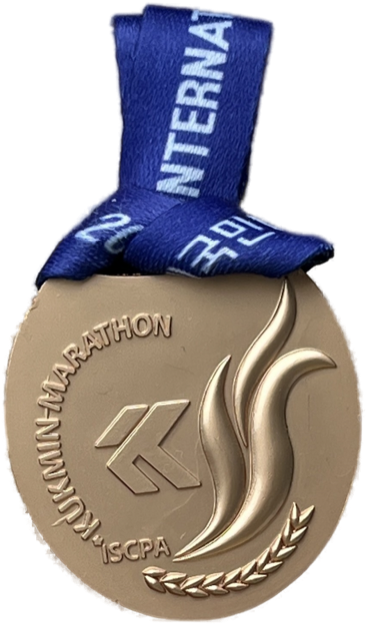
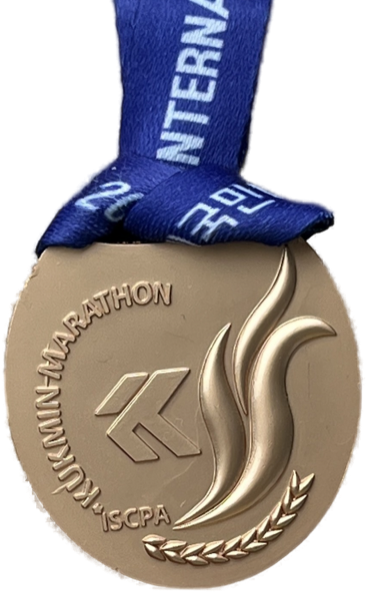
메달 크기 정규화, 보조 설명 교체
- build/fit_medals.py 신설: 리본 길이를 잘라 '메달폭/이미지높이' 를
  0.61(2024 춘천 기준)로 맞춰 화면에서 비슷한 크기로 보이게 함
  (빵빵런은 리본이 65%를 차지해 절반 크기로 보였음)
- 2025 춘천 하프->10K, 빵빵런 10K->5K, 월경박람회 마라톤->월경런 5.28km
- 신발/코스 섹션 보조 설명 교체, 히어로 안내 문구 축약

diff --git a/data/bundle.js b/data/bundle.js
@@ -1,2 +1,2 @@
 /* build.py 가 만듭니다. 직접 고치지 마세요. */
-window.FUNRUN_BUNDLE = {"tracks":{"generatedAt":"2026-08-23T20:47:13+09:00","summary":{"firstDate":"2026-02-20","lastDate":"2026-08-15","runCount":9,"totalKm":74.3,"raceCount":1,"totalKmAll":82.7,"excludedCount":1},"clusters":[{"clusterId":"c00","name":"성북-중랑-한강 코스","note":"동네에서 시작해 중랑천을 따라 한강까지 내려가는 코스입니다.","repRunId":"20260516","runCount":2,"runIds":["20260516","20260815"],"totalKm":26.41,"hasRace":false},{"clusterId":"c01","name":"안양천 — 한강 합수부","note":"","repRunId":"20260603","runCount":1,"runIds":["20260603"],"totalKm":11.92,"hasRace":false},{"clusterId":"c02","name":"더 레이스 서울","note":"10km 대회 코스. 서울 도심 청계천을 따라 달립니다.","repRunId":"20260405","runCount":1,"runIds":["20260405"],"totalKm":10.26,"hasRace":true},{"clusterId":"c03","name":"일산 호수공원","note":"","repRunId":"20260321","runCount":1,"runIds":["20260321"],"totalKm":8.33,"hasRace":false},{"clusterId":"c04","name":"노들역 출발 코스","note":"노들역에서 출발해 동작대교와 반포대교(잠수교)를 건너 다시 노들역으로 돌아옵니다. 한강을 따라 시원하게 달릴 수 있는 코스라 좋아합니다.","repRunId":"20260220","runCount":1,"runIds":["20260220"],"totalKm":8.1,"hasRace":false},{"clusterId":"c05","name":"보라매공원 런","note":"보라매공원을 크게 뱅글뱅글 돌면 되는 코스입니다. 공원이 크고 나무가 많아서 달릴 때 기분이 좋아집니다.","repRunId":"20260530","runCount":2,"runIds":["20260509","20260530"],"totalKm":12.23,"hasRace":false},{"clusterId":"c06","name":"청계천 상류","note":"","repRunId":"20260726","runCount":1,"runIds":["20260726"],"totalKm":3.53,"hasRace":false},{"clusterId":"c07","name":"성북천 이지런","note":"성신여대에서 청계천으로 갈라지기 직전까지 달립니다. 길이는 짧은데 긴 느낌이 드는 천 코스입니다.","repRunId":"20260724","runCount":1,"runIds":["20260724"],"totalKm":1.88,"hasRace":false}],"runs":[{"id":"20260220","date":"2026-02-20","file":"20260220_South Korea_오후 러닝.gpx","isRace":false,"startTime":"16:37","distanceKm":8.1,"durationSec":3385,"elapsedSec":3977,"paceSecPerKm":417,"bbox":[37.505455,126.955734,37.520126,126.997108],"inSeoul":true,"segments":[[[37.52013,126.96232],[37.51792,126.9677],[37.51737,126.96865],[37.5158,126.9732],[37.51506,126.97639],[37.51475,126.97967],[37.51485,126.9849],[37.51518,126.9858],[37.51519,126.98676],[37.51537,126.98752],[37.51641,126.9902],[37.51709,126.99146],[37.51844,126.99306],[37.51888,126.99427],[37.51582,126.99575],[37.51504,126.99622],[37.51506,126.99644]],[[37.51157,126.99711],[37.51136,126.99687],[37.51128,126.99654],[37.51019,126.9951],[37.51009,126.99457],[37.50981,126.99409],[37.50847,126.99252],[37.50772,126.99201],[37.50748,126.9917],[37.50668,126.98968],[37.50787,126.98893],[37.50737,126.98725],[37.50646,126.98673],[37.50664,126.98448],[37.50627,126.98357],[37.50611,126.98248],[37.50613,126.98106],[37.5059,126.98045],[37.50587,126.9797],[37.50564,126.97935],[37.50546,126.97819],[37.50612,126.97704],[37.5062,126.9752],[37.5066,126.97308],[37.50652,126.97301],[37.50661,126.97183],[37.5074,126.97069],[37.50766,126.96997],[37.50793,126.96977],[37.50808,126.96925],[37.50806,126.9687],[37.50866,126.96674],[37.50903,126.96622],[37.50943,126.96527],[37.50993,126.96499],[37.51001,126.96472],[37.51015,126.96472],[37.5103,126.9641],[37.51173,126.96197],[37.51215,126.96043],[37.51352,126.9577],[37.51419,126.95573]]],"clusterId":"c04"},{"id":"20260321","date":"2026-03-21","file":"20260321_South Korea_오후 러닝.gpx","isRace":false,"startTime":"15:25","distanceKm":8.33,"durationSec":3358,"elapsedSec":3358,"paceSecPerKm":403,"bbox":[37.715942,126.700531,37.723206,126.711205],"inSeoul":false,"segments":[[[37.71699,126.70917],[37.716,126.70909],[37.71595,126.7065],[37.71609,126.70628],[37.71637,126.70621],[37.71765,126.70615],[37.71792,126.70461],[37.71859,126.70271],[37.7188,126.70266],[37.71941,126.703],[37.71927,126.7038],[37.72013,126.70428],[37.72044,126.70393],[37.72115,126.70448],[37.72175,126.70435],[37.72191,126.70409],[37.72265,126.70412],[37.72279,126.70457],[37.72311,126.70474],[37.72321,126.70432],[37.72318,126.70264],[37.72295,126.70213],[37.72218,126.70162],[37.71967,126.70057],[37.71912,126.70216],[37.71881,126.70238],[37.71821,126.70405],[37.7186,126.70455],[37.71833,126.70712],[37.71843,126.708],[37.71835,126.71009],[37.71855,126.71101],[37.71842,126.71117],[37.71791,126.71111],[37.71767,126.70925],[37.71768,126.70592],[37.71794,126.70448],[37.7186,126.70266],[37.71878,126.70262],[37.71939,126.70295],[37.71926,126.70382],[37.7201,126.7043],[37.72023,126.7043],[37.72047,126.70393],[37.72092,126.70442],[37.72118,126.70448],[37.72176,126.70435],[37.72187,126.7041],[37.72308,126.70411],[37.72318,126.70399],[37.72313,126.70267],[37.72274,126.70203],[37.71969,126.70057],[37.71914,126.70233],[37.71881,126.70237],[37.71823,126.70407],[37.71836,126.70428],[37.71813,126.70544],[37.71844,126.70573],[37.71831,126.70693],[37.71841,126.70807],[37.71836,126.71009],[37.71851,126.71111],[37.71789,126.71119],[37.71765,126.71087],[37.7176,126.71039],[37.71763,126.7064],[37.71782,126.70608],[37.7183,126.70602],[37.71835,126.71014],[37.71851,126.71111],[37.71803,126.71119],[37.71796,126.71107],[37.71774,126.70914],[37.71772,126.70636],[37.71757,126.70615],[37.71722,126.70621],[37.71726,126.709],[37.71707,126.70936],[37.71718,126.70948],[37.71714,126.70966]]],"clusterId":"c03"},{"id":"20260405","date":"2026-04-05","file":"20260405_South Korea_이른아침 러닝(대회).gpx","isRace":true,"startTime":"07:44","distanceKm":10.26,"durationSec":3589,"elapsedSec":3589,"paceSecPerKm":349,"bbox":[37.560596,126.975883,37.571068,127.009514],"inSeoul":true,"segments":[[[37.57099,126.97733],[37.56814,126.97727],[37.5674,126.9774],[37.56499,126.97742],[37.56453,126.97735],[37.56086,126.97589],[37.5606,126.97612],[37.56112,126.97757],[37.56154,126.98016],[37.56203,126.98106],[37.56244,126.98087],[37.56482,126.97865],[37.56531,126.97872],[37.566,126.97926],[37.56612,126.98262],[37.56604,126.98308],[37.5662,126.98594],[37.5661,126.9864],[37.5661,126.98785],[37.56639,126.99239],[37.56605,126.98304],[37.56607,126.97932],[37.5668,126.97902],[37.56746,126.979],[37.56935,126.97927],[37.56992,126.97912],[37.57014,126.97943],[37.57018,126.98271],[37.57006,126.98318],[37.57018,126.98441],[37.57017,126.9884],[37.57046,126.99328],[37.57043,126.99481],[37.57096,127.00224],[37.57107,127.00748],[37.57104,127.00892],[37.57059,127.00934],[37.57019,127.00951],[37.56995,127.00935],[37.56984,127.00804],[37.56976,127.00185],[37.56891,126.99746],[37.56824,126.98883],[37.56834,126.9865],[37.5688,126.98454],[37.5691,126.98235]]],"clusterId":"c02"},{"id":"20260509","date":"2026-05-09","file":"20260509_South Korea_늦은오후 러닝.gpx","isRace":false,"startTime":"19:42","distanceKm":5.1,"durationSec":2049,"elapsedSec":2384,"paceSecPerKm":401,"bbox":[37.485168,126.906471,37.493633,126.922012],"inSeoul":true,"segments":[[[37.49316,126.922],[37.49361,126.91875],[37.49266,126.91789],[37.49244,126.91778],[37.49214,126.91792],[37.49156,126.92178],[37.49072,126.9216],[37.49081,126.92074],[37.49057,126.91912],[37.49087,126.91731],[37.49063,126.91677],[37.49065,126.91639],[37.49035,126.916],[37.48902,126.9156],[37.48851,126.91491],[37.48799,126.91351],[37.48735,126.91288],[37.48691,126.91199]],[[37.48635,126.91068],[37.48518,126.90683],[37.4852,126.90647],[37.48566,126.9075],[37.48594,126.90891],[37.4865,126.91076],[37.48734,126.91288],[37.48753,126.9131]],[[37.48771,126.9132],[37.48825,126.91388],[37.48888,126.91518]],[[37.4896,126.91566],[37.4906,126.91626],[37.49077,126.9166],[37.49078,126.91714],[37.49118,126.91721],[37.49159,126.91785]],[[37.49166,126.91782],[37.49241,126.91794],[37.49335,126.91889],[37.49328,126.9193],[37.49313,126.91895],[37.49279,126.91869],[37.49248,126.91876],[37.49225,126.91908],[37.492,126.92088],[37.49219,126.92123],[37.4925,126.92133],[37.49286,126.92118],[37.49301,126.92092],[37.49323,126.91927],[37.49313,126.91894],[37.4928,126.91869],[37.49233,126.91892],[37.49199,126.92075],[37.49205,126.92105],[37.49242,126.92136],[37.49286,126.92122],[37.49302,126.92091],[37.49316,126.92001]]],"clusterId":"c05"},{"id":"20260516","date":"2026-05-16","file":"20260516_South Korea_오전 러닝.gpx","isRace":false,"startTime":"08:17","distanceKm":13.23,"durationSec":5912,"elapsedSec":9289,"paceSecPerKm":446,"bbox":[37.514744,126.959541,37.572136,127.051491],"inSeoul":true,"segments":[[[37.519,126.95954],[37.52127,126.96082]],[[37.52049,126.96105],[37.52026,126.96155],[37.52022,126.96204],[37.51907,126.9649],[37.51706,126.96951]],[[37.51702,126.9697],[37.51678,126.97018],[37.51574,126.9734],[37.51507,126.97639],[37.51474,126.98071],[37.51485,126.98103],[37.51485,126.98467]],[[37.51496,126.98518],[37.51516,126.98574],[37.51532,126.98736],[37.51609,126.9894]],[[37.5164,126.99017],[37.51715,126.99152],[37.51849,126.99313],[37.5196,126.99594],[37.52058,126.99783],[37.52173,127.00047],[37.52255,127.00166],[37.52282,127.00192],[37.52303,127.00187]],[[37.52331,127.00207],[37.52491,127.00307],[37.52579,127.00388],[37.52662,127.00531],[37.5279,127.00693],[37.52824,127.00719],[37.52909,127.00872],[37.52978,127.01054],[37.53069,127.01189],[37.5327,127.01346],[37.53296,127.01363],[37.53355,127.01366],[37.53932,127.01745],[37.53965,127.01778],[37.54003,127.0186],[37.54042,127.01905],[37.54106,127.02047],[37.54245,127.02266]],[[37.54285,127.02322],[37.54332,127.02399],[37.54427,127.02493],[37.54539,127.02843],[37.5462,127.03045]],[[37.54651,127.03101],[37.54674,127.03122],[37.54715,127.03227],[37.54779,127.03314],[37.54899,127.03433],[37.55003,127.03497],[37.5505,127.03559],[37.55177,127.03799],[37.55231,127.03943]],[[37.55256,127.04008],[37.55322,127.04224],[37.55374,127.04545],[37.55397,127.04573],[37.5537,127.04649],[37.55347,127.04958],[37.55353,127.0501],[37.55384,127.05067],[37.55414,127.0509],[37.55582,127.05137],[37.55763,127.05149],[37.55835,127.05128],[37.56099,127.05003]],[[37.56259,127.04926],[37.56375,127.04879],[37.56952,127.04564],[37.57,127.04499],[37.57037,127.04391],[37.57128,127.04206],[37.57146,127.04208],[37.57168,127.04159],[37.57174,127.03949],[37.57214,127.03781],[37.57189,127.03584],[37.57161,127.03493],[37.56993,127.03243],[37.56968,127.03144],[37.56971,127.03046]]],"clusterId":"c00"},{"id":"20260530","date":"2026-05-30","file":"20260530_South Korea_오전 러닝.gpx","isRace":false,"startTime":"09:02","distanceKm":7.13,"durationSec":3015,"elapsedSec":3505,"paceSecPerKm":422,"bbox":[37.490528,126.91613,37.493595,126.922188],"inSeoul":true,"segments":[[[37.49308,126.92021],[37.49314,126.91907],[37.49291,126.91878],[37.49255,126.91872],[37.49224,126.91916],[37.49201,126.92066],[37.49205,126.92104],[37.49222,126.92128],[37.49257,126.92135],[37.49292,126.92108],[37.49321,126.91932],[37.49311,126.91898],[37.49286,126.91875],[37.49252,126.91878],[37.49228,126.91904],[37.49201,126.92078],[37.49227,126.9213],[37.4926,126.92137],[37.49289,126.92117],[37.49301,126.92091],[37.49334,126.91882],[37.49254,126.91809],[37.4922,126.91796],[37.4921,126.91808],[37.49192,126.91914]],[[37.49167,126.91992],[37.49179,126.92023],[37.49155,126.92178],[37.49069,126.92164],[37.49079,126.92077],[37.49053,126.91905],[37.49079,126.91811]],[[37.49078,126.91811],[37.49085,126.91737],[37.49066,126.91693],[37.491,126.91635],[37.49154,126.91637],[37.49206,126.91666],[37.49223,126.91725],[37.49208,126.9177]],[[37.49238,126.91794],[37.49336,126.9188],[37.49328,126.91931],[37.4931,126.91895],[37.49282,126.91874],[37.49249,126.9188],[37.49224,126.91912],[37.49199,126.92085],[37.49223,126.92131],[37.49261,126.92137],[37.49301,126.92096],[37.49319,126.91919],[37.49304,126.9189],[37.49268,126.91873],[37.4924,126.91888],[37.49224,126.91917],[37.49199,126.92077],[37.49211,126.92117],[37.49236,126.92136],[37.49271,126.92132],[37.49299,126.92098],[37.49322,126.91927],[37.49289,126.91876],[37.49261,126.91873],[37.49228,126.91891]],[[37.49224,126.91898],[37.49192,126.91914],[37.49154,126.9218],[37.49293,126.92219]],[[37.49313,126.92207],[37.49359,126.9188],[37.49281,126.91801],[37.49236,126.91775],[37.49204,126.91663],[37.49096,126.91615],[37.4907,126.91692],[37.49085,126.91742],[37.49055,126.91903],[37.49081,126.92069],[37.49075,126.92164],[37.49166,126.92185],[37.49264,126.9214],[37.49294,126.92111],[37.49323,126.91946],[37.4932,126.91914],[37.49309,126.9189],[37.4928,126.91872],[37.49231,126.91889]],[[37.49226,126.91907],[37.49197,126.92095],[37.49218,126.92126],[37.49245,126.92138],[37.49295,126.92109],[37.49324,126.91943],[37.49302,126.91882],[37.49269,126.91871],[37.49235,126.91888],[37.49217,126.91933],[37.49208,126.92014],[37.49184,126.92014]]],"clusterId":"c05"},{"id":"20260603","date":"2026-06-03","file":"20260603_South Korea_이른아침 러닝.gpx","isRace":false,"startTime":"06:53","distanceKm":11.92,"durationSec":5606,"elapsedSec":8339,"paceSecPerKm":470,"bbox":[37.484089,126.887817,37.51321,126.921799],"inSeoul":true,"segments":[[[37.49345,126.9191],[37.49331,126.91895],[37.49339,126.91903],[37.49332,126.91875],[37.49258,126.91808],[37.49212,126.91798],[37.49179,126.92028]],[[37.49157,126.92087],[37.49166,126.92102],[37.49153,126.92178],[37.4907,126.92159],[37.4908,126.92061],[37.49055,126.91914],[37.49089,126.91739],[37.4907,126.9169],[37.49075,126.91653],[37.49036,126.91601],[37.48906,126.91561],[37.48823,126.9147],[37.48817,126.91386],[37.48759,126.91316],[37.48758,126.913],[37.48732,126.91288],[37.48673,126.91167],[37.48508,126.90663],[37.48477,126.90624],[37.48467,126.90563],[37.48409,126.90552],[37.48424,126.90549],[37.48423,126.90538]],[[37.48585,126.89997],[37.48613,126.89935],[37.48662,126.89894],[37.48748,126.8978],[37.48817,126.89714],[37.48889,126.8967],[37.49207,126.89557],[37.49212,126.89545],[37.49263,126.89536],[37.49352,126.89488],[37.49576,126.8941],[37.49701,126.89386]],[[37.49734,126.8937],[37.49739,126.89368]],[[37.49796,126.89346],[37.49828,126.89368]],[[37.49895,126.89561],[37.49914,126.89601]],[[37.49912,126.8959],[37.49987,126.89744],[37.50001,126.89753],[37.50026,126.89729]],[[37.49999,126.89638],[37.49961,126.89584],[37.49881,126.89417]],[[37.4984,126.89368],[37.50131,126.89323],[37.50234,126.8933]],[[37.50478,126.89363],[37.50353,126.89354],[37.50654,126.89409],[37.50874,126.893],[37.50962,126.89236],[37.50997,126.89184],[37.51083,126.89131],[37.51202,126.89017],[37.5126,126.8893],[37.51321,126.88782],[37.51245,126.8896],[37.51204,126.89018],[37.51121,126.89091]],[[37.51029,126.89166],[37.50967,126.89233],[37.50992,126.89264],[37.50974,126.89254],[37.5093,126.89288],[37.50909,126.89277],[37.50817,126.89342],[37.50643,126.8941],[37.50314,126.89349]],[[37.50189,126.8931],[37.50175,126.89324],[37.49789,126.89375]],[[37.49699,126.89397],[37.4958,126.8942],[37.49468,126.89462]],[[37.49382,126.89485],[37.49223,126.89533],[37.49117,126.89588],[37.48958,126.89645],[37.48914,126.89645],[37.48772,126.8976],[37.48739,126.8977],[37.48642,126.89947],[37.4862,126.89922],[37.48598,126.89924],[37.48533,126.90037],[37.48489,126.90073]],[[37.48532,126.90683],[37.48651,126.91103],[37.48742,126.91285],[37.4876,126.91286],[37.48817,126.9137],[37.4889,126.91531],[37.48928,126.91563],[37.49041,126.91602],[37.49074,126.91647],[37.49109,126.91628],[37.492,126.91654],[37.4922,126.91696],[37.49234,126.91786],[37.49336,126.91875],[37.49328,126.91929],[37.49305,126.91885],[37.49282,126.9187],[37.49251,126.91872],[37.49228,126.91898],[37.49198,126.92065],[37.49213,126.92118],[37.49253,126.92135],[37.4929,126.92113],[37.49327,126.9195]]],"clusterId":"c01"},{"id":"20260724","date":"2026-07-24","file":"20260724_South Korea_늦은오후 러닝.gpx","isRace":false,"startTime":"19:16","distanceKm":1.88,"durationSec":749,"elapsedSec":889,"paceSecPerKm":398,"bbox":[37.577209,127.021393,37.584877,127.02787],"inSeoul":true,"segments":[[[37.58277,127.02221],[37.57962,127.024],[37.57926,127.02461],[37.57908,127.02581],[37.57848,127.02699],[37.57791,127.02754],[37.57721,127.02787]],[[37.57802,127.02743],[37.57881,127.02624],[37.57903,127.02573],[37.57926,127.02443],[37.57965,127.02391],[37.5829,127.02212],[37.58488,127.02141]]],"clusterId":"c07"},{"id":"20260726","date":"2026-07-26","file":"20260726_South Korea_저녁 러닝.gpx","isRace":false,"startTime":"22:03","distanceKm":3.53,"durationSec":1487,"elapsedSec":2157,"paceSecPerKm":420,"bbox":[37.569649,127.026093,37.578861,127.044815],"inSeoul":true,"segments":[[[37.57886,127.02609],[37.57851,127.0269],[37.57805,127.02739],[37.57713,127.02789],[37.57626,127.02789],[37.5761,127.02773],[37.5742,127.02798],[37.57389,127.02776],[37.57355,127.02795],[37.57152,127.02771]],[[37.57062,127.02802],[37.57037,127.02884]],[[37.57087,127.02746],[37.57102,127.02695]],[[37.57055,127.02682],[37.57051,127.02703]],[[37.57032,127.02766],[37.5697,127.03014],[37.56968,127.03144],[37.56984,127.0321],[37.57048,127.03328],[37.5718,127.03487],[37.57202,127.03601],[37.57211,127.03773],[37.57232,127.03848],[37.57226,127.0393],[37.57192,127.03975],[37.57176,127.04138],[37.57099,127.04253],[37.57072,127.04352],[37.5701,127.04482]],[[37.57019,127.04453],[37.57011,127.04442],[37.57064,127.04305],[37.5713,127.04188],[37.57167,127.04089],[37.572,127.03718]]],"clusterId":"c06"},{"id":"20260815","date":"2026-08-15","file":"20260815_South Korea_오전 러닝.gpx","isRace":false,"startTime":"08:15","distanceKm":13.18,"durationSec":5848,"elapsedSec":6987,"paceSecPerKm":443,"bbox":[37.529102,127.009163,37.594517,127.051537],"inSeoul":true,"segments":[[[37.59452,127.0209],[37.58943,127.02026],[37.58942,127.01974],[37.58883,127.01905]],[[37.58801,127.01986],[37.58699,127.02068],[37.58584,127.02097],[37.58304,127.02204],[37.57964,127.02393],[37.57931,127.0244],[37.57908,127.02566],[37.57846,127.02699],[37.5778,127.02756],[37.57716,127.02782],[37.57443,127.02817]],[[37.57363,127.02815],[37.5714,127.02787],[37.57074,127.02799],[37.57103,127.02686]],[[37.57055,127.02682],[37.56973,127.02983],[37.5697,127.03121],[37.56996,127.03239],[37.57127,127.03441]],[[37.57148,127.03474],[37.57192,127.03581],[37.5722,127.03822],[37.57191,127.03925],[37.57193,127.04009],[37.57177,127.04126],[37.57083,127.04278],[37.57083,127.04326],[37.57011,127.0448]],[[37.56984,127.04528],[37.56886,127.04613],[37.56702,127.04694],[37.56645,127.04738],[37.5657,127.04765],[37.56442,127.04844],[37.56292,127.04903],[37.55849,127.05123],[37.55746,127.05154],[37.55587,127.05135],[37.55415,127.05087],[37.55359,127.05023],[37.55348,127.04958],[37.55371,127.04641],[37.55396,127.04578],[37.55372,127.04543],[37.55322,127.04224]],[[37.55313,127.04193],[37.55275,127.04052],[37.55181,127.03802],[37.55056,127.03564],[37.55005,127.03498],[37.54897,127.03429],[37.54789,127.0332],[37.54698,127.03197],[37.54675,127.0312],[37.54615,127.03046]],[[37.54597,127.03],[37.5459,127.02956],[37.54544,127.0285],[37.54431,127.02501],[37.54331,127.02399],[37.54171,127.02155]],[[37.54122,127.02067],[37.5401,127.01864]],[[37.54004,127.01856],[37.53931,127.01764],[37.53761,127.01626]],[[37.53691,127.0158],[37.53342,127.01357],[37.53261,127.01343],[37.53179,127.01263],[37.53119,127.01224],[37.52999,127.01089],[37.5291,127.00916]],[[37.52914,127.00921],[37.53017,127.01109],[37.53064,127.01167],[37.53209,127.01247],[37.5327,127.01344],[37.53368,127.01366],[37.53815,127.01672],[37.53886,127.01703],[37.53898,127.01719],[37.53887,127.01773]],[[37.53909,127.01742],[37.53943,127.01754],[37.54005,127.01823],[37.54096,127.02017],[37.54055,127.01952]]],"clusterId":"c00"}]},"runsCsv":"날짜,코스,거리km,대회,만족도,한줄평,운동화,사진\n2026-02-20,노들역 출발 코스,8.10,,,,shoe-01,\n2026-03-21,일산 호수공원,8.33,,,,shoe-01,\n2026-04-05,더 레이스 서울,10.26,대회,5,서울 도심인 청계천을 달리는 경험은 처음이었는데 즐거웠다.,shoe-02,\n2026-05-09,보라매공원 런,5.10,,,,shoe-02,\n2026-05-16,성북-중랑-한강 코스,13.23,,,,shoe-02,\n2026-05-30,보라매공원 런,7.13,,,,shoe-02,\n2026-06-03,안양천 — 한강 합수부,11.92,,,,shoe-03,\n2026-07-24,성북천 이지런,1.88,,,,shoe-03,\n2026-07-26,청계천 상류,3.53,,,,shoe-03,\n2026-08-15,성북-중랑-한강 코스,13.18,,,,shoe-03,\n","shoesCsv":"id,이름,브랜드,사이즈,상태,사진,크롭,메모\nshoe-01,리액트 이스케이프 런,NIKE,250,은퇴,images/shoes/shoe-01.jpg,\"24,15,70,70\",\nshoe-02,디비에이트 나이트로 3 화이트실버,PUMA,255,주력,images/shoes/shoe-02.jpg,\"9,47,43,43\",\nshoe-03,젤카야노 33 우먼 D,ASICS,255,주력,images/shoes/shoe-02.jpg,\"47,14,44,44\",\n","medalsCsv":"연도,대회명,종목,기록,사진,연결러닝,메모\n2021,월경박람회 마라톤,5K,,images/medals/2021-wolgyeong.png,,처음으로 받아본 완주 메달.\n2023,JTBC 서울마라톤,10K,,images/medals/2023-jtbc.png,,\n2023,빵빵런,10K,,images/medals/2023-ppangppang.png,,\n2024,춘천마라톤,10K,,images/medals/2024-chuncheon.png,,\n2025,여의도 벚꽃마라톤,10K,,images/medals/2025-yeouido.png,,\n2025,국제국민마라톤,10K,,images/medals/2025-kukje.png,,\n2025,춘천마라톤,하프,,images/medals/2025-chuncheon.png,,\n2026,더 레이스 서울,10K,,images/medals/2026-theraceseoul.png,2026-04-05,GPX 기록이 남아있는 유일한 대회.\n","coursesCsv":"대표날짜,코스명,설명\n2026-02-20,노들역 출발 코스,노들역에서 출발해 동작대교와 반포대교(잠수교)를 건너 다시 노들역으로 돌아옵니다. 한강을 따라 시원하게 달릴 수 있는 코스라 좋아합니다.\n2026-03-21,일산 호수공원,\n2026-04-05,더 레이스 서울,10km 대회 코스. 서울 도심 청계천을 따라 달립니다.\n2026-05-16,성북-중랑-한강 코스,동네에서 시작해 중랑천을 따라 한강까지 내려가는 코스입니다.\n2026-05-30,보라매공원 런,보라매공원을 크게 뱅글뱅글 돌면 되는 코스입니다. 공원이 크고 나무가 많아서 달릴 때 기분이 좋아집니다.\n2026-06-03,안양천 — 한강 합수부,\n2026-07-24,성북천 이지런,성신여대에서 청계천으로 갈라지기 직전까지 달립니다. 길이는 짧은데 긴 느낌이 드는 천 코스입니다.\n2026-07-26,청계천 상류,\n","monthlyCsv":"연월,거리km,기준일\n2026-01,16.2,\n2026-02,26.5,\n2026-03,29.8,\n2026-04,26.8,\n2026-05,44.2,\n2026-06,16.7,\n2026-07,11,\n2026-08,49,2026-08-23\n"};
+window.FUNRUN_BUNDLE = {"tracks":{"generatedAt":"2026-08-23T21:19:35+09:00","summary":{"firstDate":"2026-02-20","lastDate":"2026-08-15","runCount":9,"totalKm":74.3,"raceCount":1,"totalKmAll":82.7,"excludedCount":1},"clusters":[{"clusterId":"c00","name":"성북-중랑-한강 코스","note":"동네에서 시작해 중랑천을 따라 한강까지 내려가는 코스입니다.","repRunId":"20260516","runCount":2,"runIds":["20260516","20260815"],"totalKm":26.41,"hasRace":false},{"clusterId":"c01","name":"안양천 — 한강 합수부","note":"","repRunId":"20260603","runCount":1,"runIds":["20260603"],"totalKm":11.92,"hasRace":false},{"clusterId":"c02","name":"더 레이스 서울","note":"10km 대회 코스. 서울 도심 청계천을 따라 달립니다.","repRunId":"20260405","runCount":1,"runIds":["20260405"],"totalKm":10.26,"hasRace":true},{"clusterId":"c03","name":"일산 호수공원","note":"","repRunId":"20260321","runCount":1,"runIds":["20260321"],"totalKm":8.33,"hasRace":false},{"clusterId":"c04","name":"노들역 출발 코스","note":"노들역에서 출발해 동작대교와 반포대교(잠수교)를 건너 다시 노들역으로 돌아옵니다. 한강을 따라 시원하게 달릴 수 있는 코스라 좋아합니다.","repRunId":"20260220","runCount":1,"runIds":["20260220"],"totalKm":8.1,"hasRace":false},{"clusterId":"c05","name":"보라매공원 런","note":"보라매공원을 크게 뱅글뱅글 돌면 되는 코스입니다. 공원이 크고 나무가 많아서 달릴 때 기분이 좋아집니다.","repRunId":"20260530","runCount":2,"runIds":["20260509","20260530"],"totalKm":12.23,"hasRace":false},{"clusterId":"c06","name":"청계천 상류","note":"","repRunId":"20260726","runCount":1,"runIds":["20260726"],"totalKm":3.53,"hasRace":false},{"clusterId":"c07","name":"성북천 이지런","note":"성신여대에서 청계천으로 갈라지기 직전까지 달립니다. 길이는 짧은데 긴 느낌이 드는 천 코스입니다.","repRunId":"20260724","runCount":1,"runIds":["20260724"],"totalKm":1.88,"hasRace":false}],"runs":[{"id":"20260220","date":"2026-02-20","file":"20260220_South Korea_오후 러닝.gpx","isRace":false,"startTime":"16:37","distanceKm":8.1,"durationSec":3385,"elapsedSec":3977,"paceSecPerKm":417,"bbox":[37.505455,126.955734,37.520126,126.997108],"inSeoul":true,"segments":[[[37.52013,126.96232],[37.51792,126.9677],[37.51737,126.96865],[37.5158,126.9732],[37.51506,126.97639],[37.51475,126.97967],[37.51485,126.9849],[37.51518,126.9858],[37.51519,126.98676],[37.51537,126.98752],[37.51641,126.9902],[37.51709,126.99146],[37.51844,126.99306],[37.51888,126.99427],[37.51582,126.99575],[37.51504,126.99622],[37.51506,126.99644]],[[37.51157,126.99711],[37.51136,126.99687],[37.51128,126.99654],[37.51019,126.9951],[37.51009,126.99457],[37.50981,126.99409],[37.50847,126.99252],[37.50772,126.99201],[37.50748,126.9917],[37.50668,126.98968],[37.50787,126.98893],[37.50737,126.98725],[37.50646,126.98673],[37.50664,126.98448],[37.50627,126.98357],[37.50611,126.98248],[37.50613,126.98106],[37.5059,126.98045],[37.50587,126.9797],[37.50564,126.97935],[37.50546,126.97819],[37.50612,126.97704],[37.5062,126.9752],[37.5066,126.97308],[37.50652,126.97301],[37.50661,126.97183],[37.5074,126.97069],[37.50766,126.96997],[37.50793,126.96977],[37.50808,126.96925],[37.50806,126.9687],[37.50866,126.96674],[37.50903,126.96622],[37.50943,126.96527],[37.50993,126.96499],[37.51001,126.96472],[37.51015,126.96472],[37.5103,126.9641],[37.51173,126.96197],[37.51215,126.96043],[37.51352,126.9577],[37.51419,126.95573]]],"clusterId":"c04"},{"id":"20260321","date":"2026-03-21","file":"20260321_South Korea_오후 러닝.gpx","isRace":false,"startTime":"15:25","distanceKm":8.33,"durationSec":3358,"elapsedSec":3358,"paceSecPerKm":403,"bbox":[37.715942,126.700531,37.723206,126.711205],"inSeoul":false,"segments":[[[37.71699,126.70917],[37.716,126.70909],[37.71595,126.7065],[37.71609,126.70628],[37.71637,126.70621],[37.71765,126.70615],[37.71792,126.70461],[37.71859,126.70271],[37.7188,126.70266],[37.71941,126.703],[37.71927,126.7038],[37.72013,126.70428],[37.72044,126.70393],[37.72115,126.70448],[37.72175,126.70435],[37.72191,126.70409],[37.72265,126.70412],[37.72279,126.70457],[37.72311,126.70474],[37.72321,126.70432],[37.72318,126.70264],[37.72295,126.70213],[37.72218,126.70162],[37.71967,126.70057],[37.71912,126.70216],[37.71881,126.70238],[37.71821,126.70405],[37.7186,126.70455],[37.71833,126.70712],[37.71843,126.708],[37.71835,126.71009],[37.71855,126.71101],[37.71842,126.71117],[37.71791,126.71111],[37.71767,126.70925],[37.71768,126.70592],[37.71794,126.70448],[37.7186,126.70266],[37.71878,126.70262],[37.71939,126.70295],[37.71926,126.70382],[37.7201,126.7043],[37.72023,126.7043],[37.72047,126.70393],[37.72092,126.70442],[37.72118,126.70448],[37.72176,126.70435],[37.72187,126.7041],[37.72308,126.70411],[37.72318,126.70399],[37.72313,126.70267],[37.72274,126.70203],[37.71969,126.70057],[37.71914,126.70233],[37.71881,126.70237],[37.71823,126.70407],[37.71836,126.70428],[37.71813,126.70544],[37.71844,126.70573],[37.71831,126.70693],[37.71841,126.70807],[37.71836,126.71009],[37.71851,126.71111],[37.71789,126.71119],[37.71765,126.71087],[37.7176,126.71039],[37.71763,126.7064],[37.71782,126.70608],[37.7183,126.70602],[37.71835,126.71014],[37.71851,126.71111],[37.71803,126.71119],[37.71796,126.71107],[37.71774,126.70914],[37.71772,126.70636],[37.71757,126.70615],[37.71722,126.70621],[37.71726,126.709],[37.71707,126.70936],[37.71718,126.70948],[37.71714,126.70966]]],"clusterId":"c03"},{"id":"20260405","date":"2026-04-05","file":"20260405_South Korea_이른아침 러닝(대회).gpx","isRace":true,"startTime":"07:44","distanceKm":10.26,"durationSec":3589,"elapsedSec":3589,"paceSecPerKm":349,"bbox":[37.560596,126.975883,37.571068,127.009514],"inSeoul":true,"segments":[[[37.57099,126.97733],[37.56814,126.97727],[37.5674,126.9774],[37.56499,126.97742],[37.56453,126.97735],[37.56086,126.97589],[37.5606,126.97612],[37.56112,126.97757],[37.56154,126.98016],[37.56203,126.98106],[37.56244,126.98087],[37.56482,126.97865],[37.56531,126.97872],[37.566,126.97926],[37.56612,126.98262],[37.56604,126.98308],[37.5662,126.98594],[37.5661,126.9864],[37.5661,126.98785],[37.56639,126.99239],[37.56605,126.98304],[37.56607,126.97932],[37.5668,126.97902],[37.56746,126.979],[37.56935,126.97927],[37.56992,126.97912],[37.57014,126.97943],[37.57018,126.98271],[37.57006,126.98318],[37.57018,126.98441],[37.57017,126.9884],[37.57046,126.99328],[37.57043,126.99481],[37.57096,127.00224],[37.57107,127.00748],[37.57104,127.00892],[37.57059,127.00934],[37.57019,127.00951],[37.56995,127.00935],[37.56984,127.00804],[37.56976,127.00185],[37.56891,126.99746],[37.56824,126.98883],[37.56834,126.9865],[37.5688,126.98454],[37.5691,126.98235]]],"clusterId":"c02"},{"id":"20260509","date":"2026-05-09","file":"20260509_South Korea_늦은오후 러닝.gpx","isRace":false,"startTime":"19:42","distanceKm":5.1,"durationSec":2049,"elapsedSec":2384,"paceSecPerKm":401,"bbox":[37.485168,126.906471,37.493633,126.922012],"inSeoul":true,"segments":[[[37.49316,126.922],[37.49361,126.91875],[37.49266,126.91789],[37.49244,126.91778],[37.49214,126.91792],[37.49156,126.92178],[37.49072,126.9216],[37.49081,126.92074],[37.49057,126.91912],[37.49087,126.91731],[37.49063,126.91677],[37.49065,126.91639],[37.49035,126.916],[37.48902,126.9156],[37.48851,126.91491],[37.48799,126.91351],[37.48735,126.91288],[37.48691,126.91199]],[[37.48635,126.91068],[37.48518,126.90683],[37.4852,126.90647],[37.48566,126.9075],[37.48594,126.90891],[37.4865,126.91076],[37.48734,126.91288],[37.48753,126.9131]],[[37.48771,126.9132],[37.48825,126.91388],[37.48888,126.91518]],[[37.4896,126.91566],[37.4906,126.91626],[37.49077,126.9166],[37.49078,126.91714],[37.49118,126.91721],[37.49159,126.91785]],[[37.49166,126.91782],[37.49241,126.91794],[37.49335,126.91889],[37.49328,126.9193],[37.49313,126.91895],[37.49279,126.91869],[37.49248,126.91876],[37.49225,126.91908],[37.492,126.92088],[37.49219,126.92123],[37.4925,126.92133],[37.49286,126.92118],[37.49301,126.92092],[37.49323,126.91927],[37.49313,126.91894],[37.4928,126.91869],[37.49233,126.91892],[37.49199,126.92075],[37.49205,126.92105],[37.49242,126.92136],[37.49286,126.92122],[37.49302,126.92091],[37.49316,126.92001]]],"clusterId":"c05"},{"id":"20260516","date":"2026-05-16","file":"20260516_South Korea_오전 러닝.gpx","isRace":false,"startTime":"08:17","distanceKm":13.23,"durationSec":5912,"elapsedSec":9289,"paceSecPerKm":446,"bbox":[37.514744,126.959541,37.572136,127.051491],"inSeoul":true,"segments":[[[37.519,126.95954],[37.52127,126.96082]],[[37.52049,126.96105],[37.52026,126.96155],[37.52022,126.96204],[37.51907,126.9649],[37.51706,126.96951]],[[37.51702,126.9697],[37.51678,126.97018],[37.51574,126.9734],[37.51507,126.97639],[37.51474,126.98071],[37.51485,126.98103],[37.51485,126.98467]],[[37.51496,126.98518],[37.51516,126.98574],[37.51532,126.98736],[37.51609,126.9894]],[[37.5164,126.99017],[37.51715,126.99152],[37.51849,126.99313],[37.5196,126.99594],[37.52058,126.99783],[37.52173,127.00047],[37.52255,127.00166],[37.52282,127.00192],[37.52303,127.00187]],[[37.52331,127.00207],[37.52491,127.00307],[37.52579,127.00388],[37.52662,127.00531],[37.5279,127.00693],[37.52824,127.00719],[37.52909,127.00872],[37.52978,127.01054],[37.53069,127.01189],[37.5327,127.01346],[37.53296,127.01363],[37.53355,127.01366],[37.53932,127.01745],[37.53965,127.01778],[37.54003,127.0186],[37.54042,127.01905],[37.54106,127.02047],[37.54245,127.02266]],[[37.54285,127.02322],[37.54332,127.02399],[37.54427,127.02493],[37.54539,127.02843],[37.5462,127.03045]],[[37.54651,127.03101],[37.54674,127.03122],[37.54715,127.03227],[37.54779,127.03314],[37.54899,127.03433],[37.55003,127.03497],[37.5505,127.03559],[37.55177,127.03799],[37.55231,127.03943]],[[37.55256,127.04008],[37.55322,127.04224],[37.55374,127.04545],[37.55397,127.04573],[37.5537,127.04649],[37.55347,127.04958],[37.55353,127.0501],[37.55384,127.05067],[37.55414,127.0509],[37.55582,127.05137],[37.55763,127.05149],[37.55835,127.05128],[37.56099,127.05003]],[[37.56259,127.04926],[37.56375,127.04879],[37.56952,127.04564],[37.57,127.04499],[37.57037,127.04391],[37.57128,127.04206],[37.57146,127.04208],[37.57168,127.04159],[37.57174,127.03949],[37.57214,127.03781],[37.57189,127.03584],[37.57161,127.03493],[37.56993,127.03243],[37.56968,127.03144],[37.56971,127.03046]]],"clusterId":"c00"},{"id":"20260530","date":"2026-05-30","file":"20260530_South Korea_오전 러닝.gpx","isRace":false,"startTime":"09:02","distanceKm":7.13,"durationSec":3015,"elapsedSec":3505,"paceSecPerKm":422,"bbox":[37.490528,126.91613,37.493595,126.922188],"inSeoul":true,"segments":[[[37.49308,126.92021],[37.49314,126.91907],[37.49291,126.91878],[37.49255,126.91872],[37.49224,126.91916],[37.49201,126.92066],[37.49205,126.92104],[37.49222,126.92128],[37.49257,126.92135],[37.49292,126.92108],[37.49321,126.91932],[37.49311,126.91898],[37.49286,126.91875],[37.49252,126.91878],[37.49228,126.91904],[37.49201,126.92078],[37.49227,126.9213],[37.4926,126.92137],[37.49289,126.92117],[37.49301,126.92091],[37.49334,126.91882],[37.49254,126.91809],[37.4922,126.91796],[37.4921,126.91808],[37.49192,126.91914]],[[37.49167,126.91992],[37.49179,126.92023],[37.49155,126.92178],[37.49069,126.92164],[37.49079,126.92077],[37.49053,126.91905],[37.49079,126.91811]],[[37.49078,126.91811],[37.49085,126.91737],[37.49066,126.91693],[37.491,126.91635],[37.49154,126.91637],[37.49206,126.91666],[37.49223,126.91725],[37.49208,126.9177]],[[37.49238,126.91794],[37.49336,126.9188],[37.49328,126.91931],[37.4931,126.91895],[37.49282,126.91874],[37.49249,126.9188],[37.49224,126.91912],[37.49199,126.92085],[37.49223,126.92131],[37.49261,126.92137],[37.49301,126.92096],[37.49319,126.91919],[37.49304,126.9189],[37.49268,126.91873],[37.4924,126.91888],[37.49224,126.91917],[37.49199,126.92077],[37.49211,126.92117],[37.49236,126.92136],[37.49271,126.92132],[37.49299,126.92098],[37.49322,126.91927],[37.49289,126.91876],[37.49261,126.91873],[37.49228,126.91891]],[[37.49224,126.91898],[37.49192,126.91914],[37.49154,126.9218],[37.49293,126.92219]],[[37.49313,126.92207],[37.49359,126.9188],[37.49281,126.91801],[37.49236,126.91775],[37.49204,126.91663],[37.49096,126.91615],[37.4907,126.91692],[37.49085,126.91742],[37.49055,126.91903],[37.49081,126.92069],[37.49075,126.92164],[37.49166,126.92185],[37.49264,126.9214],[37.49294,126.92111],[37.49323,126.91946],[37.4932,126.91914],[37.49309,126.9189],[37.4928,126.91872],[37.49231,126.91889]],[[37.49226,126.91907],[37.49197,126.92095],[37.49218,126.92126],[37.49245,126.92138],[37.49295,126.92109],[37.49324,126.91943],[37.49302,126.91882],[37.49269,126.91871],[37.49235,126.91888],[37.49217,126.91933],[37.49208,126.92014],[37.49184,126.92014]]],"clusterId":"c05"},{"id":"20260603","date":"2026-06-03","file":"20260603_South Korea_이른아침 러닝.gpx","isRace":false,"startTime":"06:53","distanceKm":11.92,"durationSec":5606,"elapsedSec":8339,"paceSecPerKm":470,"bbox":[37.484089,126.887817,37.51321,126.921799],"inSeoul":true,"segments":[[[37.49345,126.9191],[37.49331,126.91895],[37.49339,126.91903],[37.49332,126.91875],[37.49258,126.91808],[37.49212,126.91798],[37.49179,126.92028]],[[37.49157,126.92087],[37.49166,126.92102],[37.49153,126.92178],[37.4907,126.92159],[37.4908,126.92061],[37.49055,126.91914],[37.49089,126.91739],[37.4907,126.9169],[37.49075,126.91653],[37.49036,126.91601],[37.48906,126.91561],[37.48823,126.9147],[37.48817,126.91386],[37.48759,126.91316],[37.48758,126.913],[37.48732,126.91288],[37.48673,126.91167],[37.48508,126.90663],[37.48477,126.90624],[37.48467,126.90563],[37.48409,126.90552],[37.48424,126.90549],[37.48423,126.90538]],[[37.48585,126.89997],[37.48613,126.89935],[37.48662,126.89894],[37.48748,126.8978],[37.48817,126.89714],[37.48889,126.8967],[37.49207,126.89557],[37.49212,126.89545],[37.49263,126.89536],[37.49352,126.89488],[37.49576,126.8941],[37.49701,126.89386]],[[37.49734,126.8937],[37.49739,126.89368]],[[37.49796,126.89346],[37.49828,126.89368]],[[37.49895,126.89561],[37.49914,126.89601]],[[37.49912,126.8959],[37.49987,126.89744],[37.50001,126.89753],[37.50026,126.89729]],[[37.49999,126.89638],[37.49961,126.89584],[37.49881,126.89417]],[[37.4984,126.89368],[37.50131,126.89323],[37.50234,126.8933]],[[37.50478,126.89363],[37.50353,126.89354],[37.50654,126.89409],[37.50874,126.893],[37.50962,126.89236],[37.50997,126.89184],[37.51083,126.89131],[37.51202,126.89017],[37.5126,126.8893],[37.51321,126.88782],[37.51245,126.8896],[37.51204,126.89018],[37.51121,126.89091]],[[37.51029,126.89166],[37.50967,126.89233],[37.50992,126.89264],[37.50974,126.89254],[37.5093,126.89288],[37.50909,126.89277],[37.50817,126.89342],[37.50643,126.8941],[37.50314,126.89349]],[[37.50189,126.8931],[37.50175,126.89324],[37.49789,126.89375]],[[37.49699,126.89397],[37.4958,126.8942],[37.49468,126.89462]],[[37.49382,126.89485],[37.49223,126.89533],[37.49117,126.89588],[37.48958,126.89645],[37.48914,126.89645],[37.48772,126.8976],[37.48739,126.8977],[37.48642,126.89947],[37.4862,126.89922],[37.48598,126.89924],[37.48533,126.90037],[37.48489,126.90073]],[[37.48532,126.90683],[37.48651,126.91103],[37.48742,126.91285],[37.4876,126.91286],[37.48817,126.9137],[37.4889,126.91531],[37.48928,126.91563],[37.49041,126.91602],[37.49074,126.91647],[37.49109,126.91628],[37.492,126.91654],[37.4922,126.91696],[37.49234,126.91786],[37.49336,126.91875],[37.49328,126.91929],[37.49305,126.91885],[37.49282,126.9187],[37.49251,126.91872],[37.49228,126.91898],[37.49198,126.92065],[37.49213,126.92118],[37.49253,126.92135],[37.4929,126.92113],[37.49327,126.9195]]],"clusterId":"c01"},{"id":"20260724","date":"2026-07-24","file":"20260724_South Korea_늦은오후 러닝.gpx","isRace":false,"startTime":"19:16","distanceKm":1.88,"durationSec":749,"elapsedSec":889,"paceSecPerKm":398,"bbox":[37.577209,127.021393,37.584877,127.02787],"inSeoul":true,"segments":[[[37.58277,127.02221],[37.57962,127.024],[37.57926,127.02461],[37.57908,127.02581],[37.57848,127.02699],[37.57791,127.02754],[37.57721,127.02787]],[[37.57802,127.02743],[37.57881,127.02624],[37.57903,127.02573],[37.57926,127.02443],[37.57965,127.02391],[37.5829,127.02212],[37.58488,127.02141]]],"clusterId":"c07"},{"id":"20260726","date":"2026-07-26","file":"20260726_South Korea_저녁 러닝.gpx","isRace":false,"startTime":"22:03","distanceKm":3.53,"durationSec":1487,"elapsedSec":2157,"paceSecPerKm":420,"bbox":[37.569649,127.026093,37.578861,127.044815],"inSeoul":true,"segments":[[[37.57886,127.02609],[37.57851,127.0269],[37.57805,127.02739],[37.57713,127.02789],[37.57626,127.02789],[37.5761,127.02773],[37.5742,127.02798],[37.57389,127.02776],[37.57355,127.02795],[37.57152,127.02771]],[[37.57062,127.02802],[37.57037,127.02884]],[[37.57087,127.02746],[37.57102,127.02695]],[[37.57055,127.02682],[37.57051,127.02703]],[[37.57032,127.02766],[37.5697,127.03014],[37.56968,127.03144],[37.56984,127.0321],[37.57048,127.03328],[37.5718,127.03487],[37.57202,127.03601],[37.57211,127.03773],[37.57232,127.03848],[37.57226,127.0393],[37.57192,127.03975],[37.57176,127.04138],[37.57099,127.04253],[37.57072,127.04352],[37.5701,127.04482]],[[37.57019,127.04453],[37.57011,127.04442],[37.57064,127.04305],[37.5713,127.04188],[37.57167,127.04089],[37.572,127.03718]]],"clusterId":"c06"},{"id":"20260815","date":"2026-08-15","file":"20260815_South Korea_오전 러닝.gpx","isRace":false,"startTime":"08:15","distanceKm":13.18,"durationSec":5848,"elapsedSec":6987,"paceSecPerKm":443,"bbox":[37.529102,127.009163,37.594517,127.051537],"inSeoul":true,"segments":[[[37.59452,127.0209],[37.58943,127.02026],[37.58942,127.01974],[37.58883,127.01905]],[[37.58801,127.01986],[37.58699,127.02068],[37.58584,127.02097],[37.58304,127.02204],[37.57964,127.02393],[37.57931,127.0244],[37.57908,127.02566],[37.57846,127.02699],[37.5778,127.02756],[37.57716,127.02782],[37.57443,127.02817]],[[37.57363,127.02815],[37.5714,127.02787],[37.57074,127.02799],[37.57103,127.02686]],[[37.57055,127.02682],[37.56973,127.02983],[37.5697,127.03121],[37.56996,127.03239],[37.57127,127.03441]],[[37.57148,127.03474],[37.57192,127.03581],[37.5722,127.03822],[37.57191,127.03925],[37.57193,127.04009],[37.57177,127.04126],[37.57083,127.04278],[37.57083,127.04326],[37.57011,127.0448]],[[37.56984,127.04528],[37.56886,127.04613],[37.56702,127.04694],[37.56645,127.04738],[37.5657,127.04765],[37.56442,127.04844],[37.56292,127.04903],[37.55849,127.05123],[37.55746,127.05154],[37.55587,127.05135],[37.55415,127.05087],[37.55359,127.05023],[37.55348,127.04958],[37.55371,127.04641],[37.55396,127.04578],[37.55372,127.04543],[37.55322,127.04224]],[[37.55313,127.04193],[37.55275,127.04052],[37.55181,127.03802],[37.55056,127.03564],[37.55005,127.03498],[37.54897,127.03429],[37.54789,127.0332],[37.54698,127.03197],[37.54675,127.0312],[37.54615,127.03046]],[[37.54597,127.03],[37.5459,127.02956],[37.54544,127.0285],[37.54431,127.02501],[37.54331,127.02399],[37.54171,127.02155]],[[37.54122,127.02067],[37.5401,127.01864]],[[37.54004,127.01856],[37.53931,127.01764],[37.53761,127.01626]],[[37.53691,127.0158],[37.53342,127.01357],[37.53261,127.01343],[37.53179,127.01263],[37.53119,127.01224],[37.52999,127.01089],[37.5291,127.00916]],[[37.52914,127.00921],[37.53017,127.01109],[37.53064,127.01167],[37.53209,127.01247],[37.5327,127.01344],[37.53368,127.01366],[37.53815,127.01672],[37.53886,127.01703],[37.53898,127.01719],[37.53887,127.01773]],[[37.53909,127.01742],[37.53943,127.01754],[37.54005,127.01823],[37.54096,127.02017],[37.54055,127.01952]]],"clusterId":"c00"}]},"runsCsv":"날짜,코스,거리km,대회,만족도,한줄평,운동화,사진\n2026-02-20,노들역 출발 코스,8.10,,,,shoe-01,\n2026-03-21,일산 호수공원,8.33,,,,shoe-01,\n2026-04-05,더 레이스 서울,10.26,대회,5,서울 도심인 청계천을 달리는 경험은 처음이었는데 즐거웠다.,shoe-02,\n2026-05-09,보라매공원 런,5.10,,,,shoe-02,\n2026-05-16,성북-중랑-한강 코스,13.23,,,,shoe-02,\n2026-05-30,보라매공원 런,7.13,,,,shoe-02,\n2026-06-03,안양천 — 한강 합수부,11.92,,,,shoe-03,\n2026-07-24,성북천 이지런,1.88,,,,shoe-03,\n2026-07-26,청계천 상류,3.53,,,,shoe-03,\n2026-08-15,성북-중랑-한강 코스,13.18,,,,shoe-03,\n","shoesCsv":"id,이름,브랜드,사이즈,상태,사진,크롭,메모\nshoe-01,리액트 이스케이프 런,NIKE,250,은퇴,images/shoes/shoe-01.jpg,\"24,15,70,70\",\nshoe-02,디비에이트 나이트로 3 화이트실버,PUMA,255,주력,images/shoes/shoe-02.jpg,\"9,47,43,43\",\nshoe-03,젤카야노 33 우먼 D,ASICS,255,주력,images/shoes/shoe-02.jpg,\"47,14,44,44\",\n","medalsCsv":"연도,대회명,종목,기록,사진,연결러닝,메모\n2021,월경런,5.28km,,images/medals/2021-wolgyeong.png,,처음으로 받아본 완주 메달.\n2023,JTBC 서울마라톤,10K,,images/medals/2023-jtbc.png,,\n2023,빵빵런,5K,,images/medals/2023-ppangppang.png,,\n2024,춘천마라톤,10K,,images/medals/2024-chuncheon.png,,\n2025,여의도 벚꽃마라톤,10K,,images/medals/2025-yeouido.png,,\n2025,국제국민마라톤,10K,,images/medals/2025-kukje.png,,\n2025,춘천마라톤,10K,,images/medals/2025-chuncheon.png,,\n2026,더 레이스 서울,10K,,images/medals/2026-theraceseoul.png,2026-04-05,GPX 기록이 남아있는 유일한 대회.\n","coursesCsv":"대표날짜,코스명,설명\n2026-02-20,노들역 출발 코스,노들역에서 출발해 동작대교와 반포대교(잠수교)를 건너 다시 노들역으로 돌아옵니다. 한강을 따라 시원하게 달릴 수 있는 코스라 좋아합니다.\n2026-03-21,일산 호수공원,\n2026-04-05,더 레이스 서울,10km 대회 코스. 서울 도심 청계천을 따라 달립니다.\n2026-05-16,성북-중랑-한강 코스,동네에서 시작해 중랑천을 따라 한강까지 내려가는 코스입니다.\n2026-05-30,보라매공원 런,보라매공원을 크게 뱅글뱅글 돌면 되는 코스입니다. 공원이 크고 나무가 많아서 달릴 때 기분이 좋아집니다.\n2026-06-03,안양천 — 한강 합수부,\n2026-07-24,성북천 이지런,성신여대에서 청계천으로 갈라지기 직전까지 달립니다. 길이는 짧은데 긴 느낌이 드는 천 코스입니다.\n2026-07-26,청계천 상류,\n","monthlyCsv":"연월,거리km,기준일\n2026-01,16.2,\n2026-02,26.5,\n2026-03,29.8,\n2026-04,26.8,\n2026-05,44.2,\n2026-06,16.7,\n2026-07,11,\n2026-08,49,2026-08-23\n"};

diff --git a/index.html b/index.html
@@ -90,8 +90,7 @@
     <p class="section__index">02</p>
     <h2 class="section__title">SHOE<br>RACK</h2>
     <p class="section__desc">
-      이 거리를 같이 달린 신발들.
-      거리는 <b>GPX 기록이 남아있는 러닝만</b> 합산해서, 기록을 시작하기 전에 신은 만큼은 빠져 있어요.
+      귀선과 함께한 신발들. 거리는 <b>GPX 기록이 남아있는 러닝만</b> 합산.
     </p>
   </div>
 
@@ -104,8 +103,7 @@
     <p class="section__index">03</p>
     <h2 class="section__title">SEOUL<br>ROUTES</h2>
     <p class="section__desc">
-      서울에서 달린 코스. 비슷한 코스는 <b>가장 길게 달린 기록</b>으로 하나만 그렸어요.
-      선에 마우스를 올리면 자세히 볼 수 있습니다.
+      귀선이 달린 코스들. 선에 마우스를 올리면 자세히 볼 수 있어요.
     </p>
   </div>
 

diff --git a/assets/js/app.js b/assets/js/app.js
@@ -156,11 +156,6 @@ function renderHero({ tracks, medals, monthly }) {
     parts.push(`※ 위 거리는 월별 기록의 합계예요. 아래 지도에는 GPX 가 남아있는 ` +
                `${s.runCount}회(${s.totalKm}km)만 그렸습니다.`);
   }
-  if (s.excludedCount > 0) {
-    const outside = tracks.runs.filter(r => !r.inSeoul);
-    parts.push(`서울 밖에서 달린 ${s.excludedCount}회` +
-               `(${outside.map(r => r.date.replace(/-/g, '.')).join(', ')})는 지도에서 뺐어요.`);
-  }
   if (parts.length) { note.textContent = parts.join(' '); note.hidden = false; }
 
   countUp(document.querySelector('[data-total-km]'), totalKm || s.totalKm);

diff --git a/build/fit_medals.py b/build/fit_medals.py
@@ -1,0 +1,70 @@
+#!/usr/bin/env python3
+"""메달이 화면에서 비슷한 크기로 보이도록 리본 길이를 맞춘다.
+
+메달은 정사각 칸에 object-fit: contain 으로 들어간다. 세로로 긴 이미지라
+표시 배율은 '이미지 높이'가 정하는데, 리본이 길게 찍힌 사진일수록 메달 본체가
+작아 보인다 (빵빵런은 리본이 65% 를 차지해 다른 메달의 절반 크기로 보였다).
+
+'메달 최대 폭 / 이미지 높이' 가 기준값이 되도록 위쪽 리본을 잘라낸다.
+기준값 0.61 은 2024 춘천마라톤 메달에서 가져왔다.
+
+이미 기준보다 크게 보이는 메달은 건드리지 않는다 (리본을 늘릴 수는 없으므로).
+
+사용법:  python3 build/fit_medals.py
+         python3 build/fit_medals.py --target 0.61 images/medals/어떤파일.png
+"""
+
+import glob
+import os
+import sys
+
+sys.path.insert(0, os.path.dirname(os.path.abspath(__file__)))
+from clean_medal_bg import decode_rgba, encode_rgba
+
+TARGET = 0.61        # 메달 최대 폭 / 이미지 높이
+TOLERANCE = 0.02     # 이 안에 들면 그대로 둔다
+ALPHA_FLOOR = 8
+
+
+def max_opaque_width(w, h, px):
+    best = 0
+    for y in range(h):
+        row = y * w
+        xs = [x for x in range(w) if px[(row + x) * 4 + 3] > ALPHA_FLOOR]
+        if xs:
+            best = max(best, xs[-1] - xs[0] + 1)
+    return best
+
+
+def main():
+    args = sys.argv[1:]
+    target = TARGET
+    if "--target" in args:
+        i = args.index("--target")
+        target = float(args[i + 1])
+        del args[i:i + 2]
+
+    paths = args or sorted(glob.glob("images/medals/*.png"))
+    for p in paths:
+        img = decode_rgba(p)
+        if not img:
+            print(f"  skip (8bit PNG 아님): {os.path.basename(p)}")
+            continue
+        w, h, px = img
+        mw = max_opaque_width(w, h, px)
+        ratio = mw / h
+
+        if ratio >= target - TOLERANCE:
+            print(f"  keep {os.path.basename(p):24s} 비율 {ratio:.2f} (기준 {target})")
+            continue
+
+        new_h = round(mw / target)
+        cut = h - new_h
+        out = px[cut * w * 4:]          # 위쪽 리본을 잘라낸다
+        encode_rgba(p, w, new_h, out)
+        print(f"  fit  {os.path.basename(p):24s} 비율 {ratio:.2f} -> {mw / new_h:.2f}  "
+              f"리본 {cut}px 잘라냄  {w}x{h} -> {w}x{new_h}")
+
+
+if __name__ == "__main__":
+    main()
